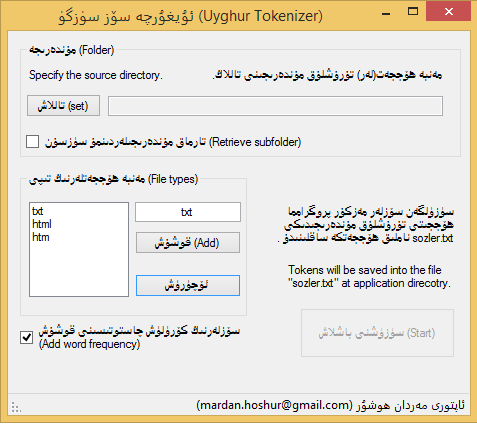
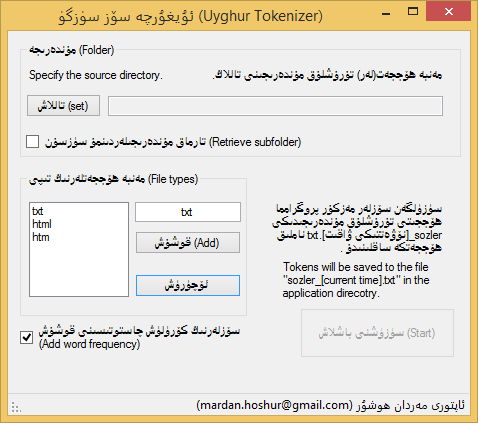
Minor fix

diff --git a/UyghurTokenizerDemoTool/MainForm.Designer.cs b/UyghurTokenizerDemoTool/MainForm.Designer.cs
@@ -185,8 +185,8 @@
             this.label3.RightToLeft = System.Windows.Forms.RightToLeft.Yes;
             this.label3.Size = new System.Drawing.Size(190, 58);
             this.label3.TabIndex = 1;
-            this.label3.Text = "سۈزۈلگەن سۆزلەر مەزكۇر پروگرامما ھۆججىتى تۇرۇشلۇق مۇندەرىجىدىكى sozler_[t].txt نا" +
-    "ملىق ھۆججەتكە ساقلىنىدۇ .";
+            this.label3.Text = "سۈزۈلگەن سۆزلەر مەزكۇر پروگرامما ھۆججىتى تۇرۇشلۇق مۇندەرىجىدىكى sozler_[نۆۋەتتىكى" +
+    " ۋاقىت].txt ناملىق ھۆججەتكە ساقلىنىدۇ .";
             // 
             // label4
             // 
@@ -194,8 +194,8 @@
             this.label4.Name = "label4";
             this.label4.Size = new System.Drawing.Size(163, 54);
             this.label4.TabIndex = 1;
-            this.label4.Text = "Tokens will be saved into the file \"sozler_[t].txt\" at the application direcotry." +
-    "";
+            this.label4.Text = "Tokens will be saved to the file \"sozler_[current time].txt\" in the application d" +
+    "irecotry.";
             this.label4.Click += new System.EventHandler(this.label4_Click);
             // 
             // cbFreq
